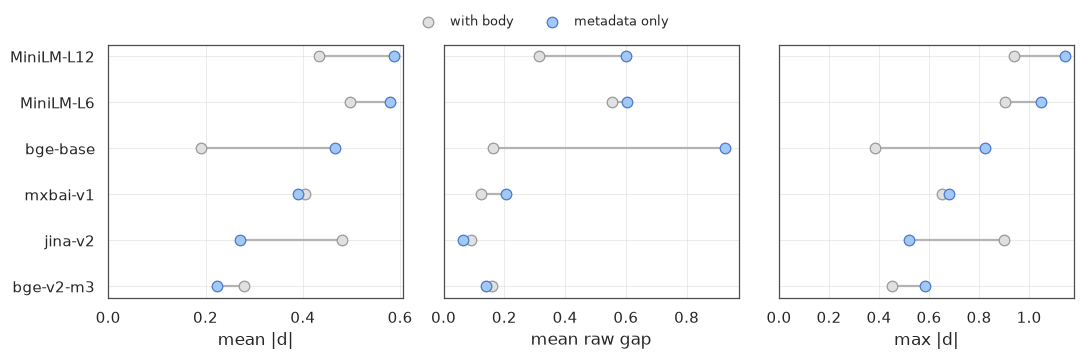
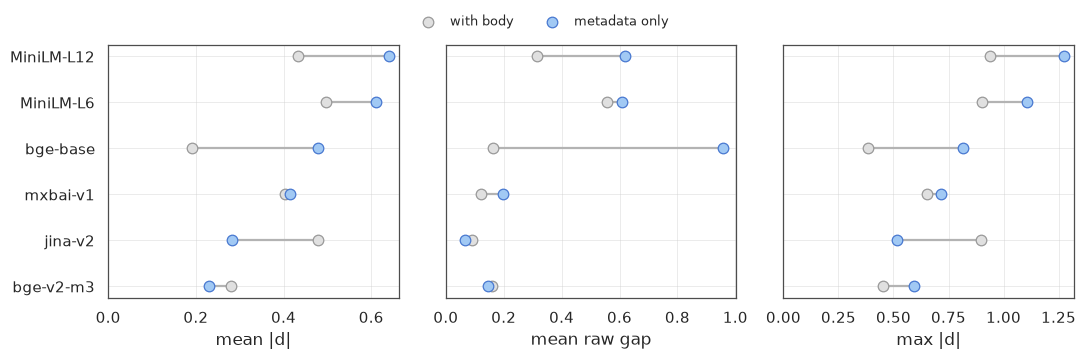
h1 finished, update notebooks and readme with key findings

diff --git a/README.md b/README.md
@@ -7,10 +7,20 @@ The study runs in two phases:
 - **H1 (characterisation).** Does a pointwise cross-encoder reranker score the same passage differently when its metadata is serialised as YAML, JSON, TOML, inline key-value, or Markdown? Measured across six models on a refined Natural Questions corpus.
 - **H2 (mitigation).** Can a LoRA adapter trained with a composite ranking-plus-invariance objective (`L_total = L_rank + lambda*L_inv`) reduce that sensitivity without harming ranking quality? Evaluated on seven model variants with a five-fold hold-one-out design over the five formats, under a fixed training budget.
 
-## Key results
+## Results
 
-- Format choice shifts scores by up to **Cohen's |d| = ~0.94** on three of six models (MiniLM-L6, mxbai, jina). The two BGE models stay near-invariant (|d| < 0.5). Full results in [`docs/h1-results.md`](docs/h1-results.md).
-- Sensitivity is measured on two axes: **max |d|** on scores, and **conditional inconsistency**, the share of queries whose gold passage ranks first under some formats but not all. A per-model composite-objective LoRA reduces both on the models that respond, and the two axes agree under mitigation. Full results in [`docs/h2-results.md`](docs/h2-results.md).
+Sensitivity is measured on two axes: the shift in a passage's absolute score, as the maximum pairwise Cohen's |d| across format pairs, and the disturbance to ranking (which I call conditional inconsistency), the share of answerable queries whose gold passage ranks first under some formats but not all.
+
+### H1: characterisation
+
+- Format choice shifts a passage's score by up to **Cohen's |d| = 0.94**, above the medium-effect threshold on four of the six models (MiniLM-L6, MiniLM-L12, mxbai-v1, jina-v2). The two BGE models fall below it (|d| < 0.5).
+- Ranking disturbance does not track that ordering. Conditional inconsistency peaks at **17.7%** on `bge-reranker-base` (the model least sensitive by |d|), and the three most inconsistent models separate from the other three on non-overlapping intervals. The two axes are therefore near-independent across the six models and capture distinct failure modes.
+
+**Supporting studies**
+
+- Metadata-only ablation: whether the sensitivity comes from the metadata block or from its interaction with the surrounding prose.
+
+Figures and intervals are in [`notebooks/h1/h1_analysis.ipynb`](notebooks/h1/h1_analysis.ipynb) and [`notebooks/h1/h1_ablation_metadata_only.ipynb`](notebooks/h1/h1_ablation_metadata_only.ipynb).
 
 ## Repository layout
 
@@ -27,7 +37,7 @@ scripts/         # runnable pipeline entry points
 notebooks/       # analysis notebooks
 data/            # refined corpus
 adapters/        # trained LoRA adapter weights
-docs/            # results write-ups, methodology notes
+docs/            # reproduction guide
 ```
 
 ## Prerequisites
